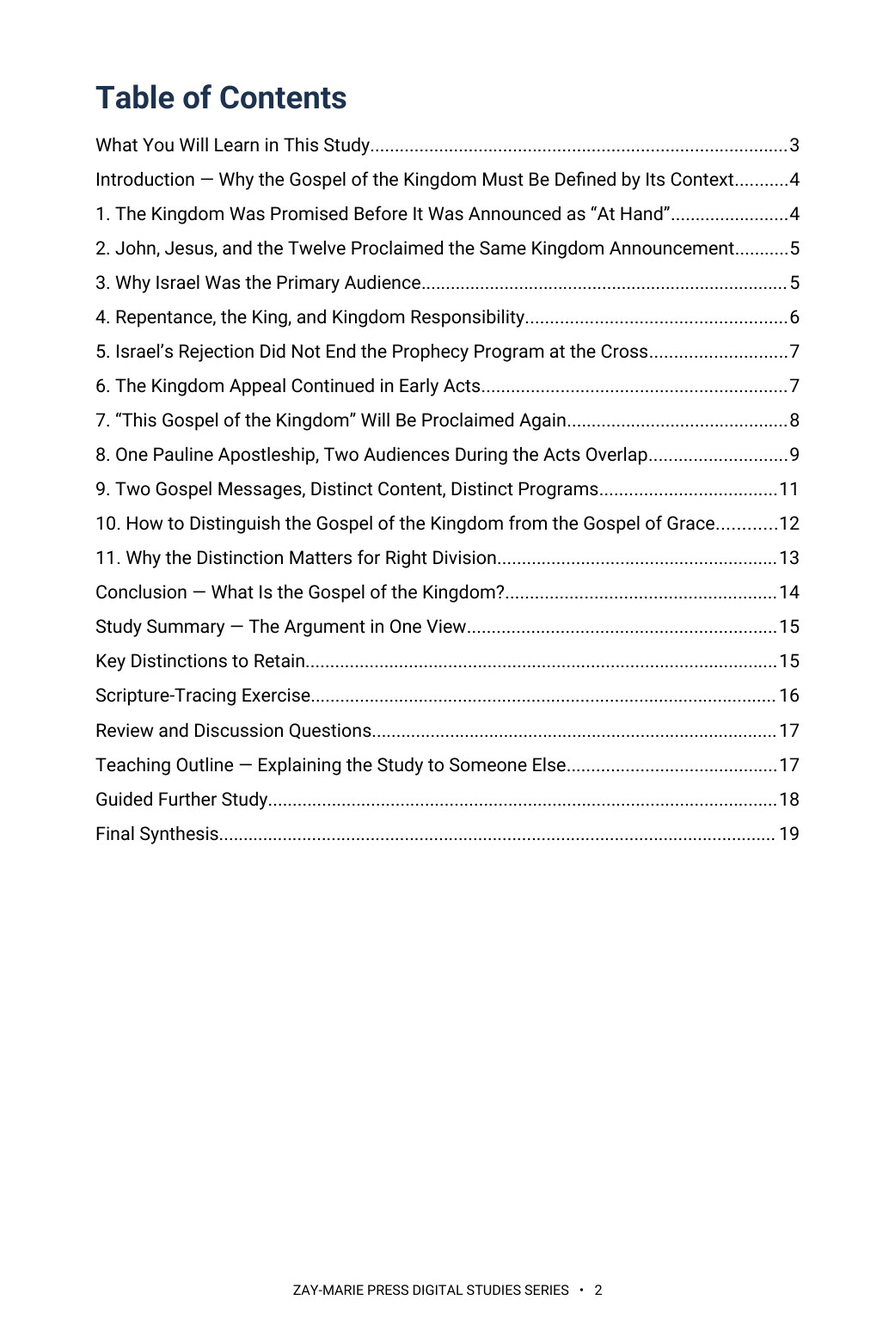
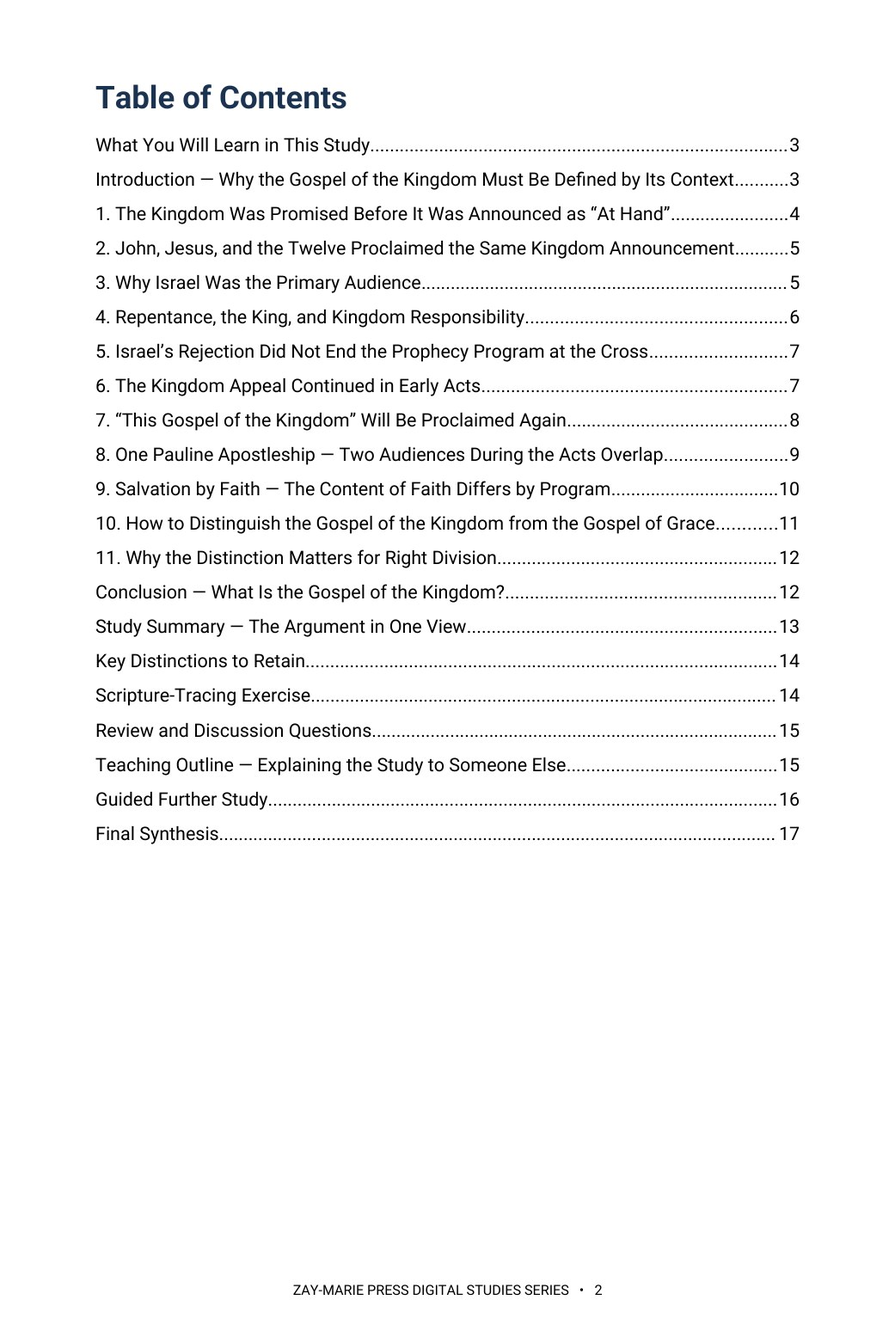
Study 2: rebuild at 17 pages on current page size; Rule 19, Rule 18 and Acts 28 wording applied; five callouts; v1.51 imprint
Claude-Session: https://claude.ai/code/session_01HC7bs9KYP2scp4hCL6DkTp

Changed region(s): [[0.123, 0.338, 0.7378, 0.3688], [0.8607, 0.4917, 0.8915, 0.5224]]

diff --git a/study-02-the-gospel-of-the-kingdom.html b/study-02-the-gospel-of-the-kingdom.html
@@ -28,8 +28,8 @@
 <section class="detail-section cream"><div class="wrap"><div class="eyebrow">KEY SCRIPTURES</div><h2>Examine the Passages for Yourself</h2><div class="scripture-grid"><div class="scripture-card"><h3>Isaiah 9:6–7</h3><p>Places the promised Son upon David’s throne and describes the government and Kingdom already revealed in Prophecy.</p></div><div class="scripture-card"><h3>Jeremiah 23:5–8</h3><p>Promises a righteous Davidic King under whose reign Judah is saved and Israel dwells safely.</p></div><div class="scripture-card"><h3>Daniel 2:44</h3><p>Describes the Kingdom established by the God of heaven in relation to the kingdoms of this world.</p></div><div class="scripture-card"><h3>Matthew 3:1–2; 4:17</h3><p>Records John and Jesus announcing that Israel’s already-promised Kingdom had drawn near.</p></div><div class="scripture-card"><h3>Matthew 10:5–7</h3><p>Identifies Israel as the initial audience and records the Twelve proclaiming the same Kingdom announcement.</p></div><div class="scripture-card"><h3>Acts 1:6–8; 3:19–21</h3><p>Shows that Israel’s Kingdom expectation and prophetic appeal remained operative after the resurrection.</p></div><div class="scripture-card"><h3>Acts 9:15, 20–22</h3><p>Shows Paul’s distinctive calling while illustrating his ministry to Israel concerning her promised Messiah during the overlap.</p></div><div class="scripture-card"><h3>Acts 20:24; 1 Corinthians 15:1–4</h3><p>Provides Pauline testimony concerning the Gospel of Grace and the saving message proclaimed to the Body of Christ.</p></div></div></div></section>
 <section class="detail-section"><div class="wrap"><div class="eyebrow">FROM THE STUDY</div><h2>The Kingdom Was Promised Before It Was Announced as “At Hand”</h2><div class="excerpt"><blockquote>“The Kingdom itself was not newly revealed. The prophetic Kingdom had already been made known; what John and Jesus announced was that the promised Kingdom had drawn near because the promised King was present.”</blockquote><p>This distinction establishes the study’s starting point: the Gospel of the Kingdom belongs to Israel’s revealed prophetic hope. The study then follows that message through the Gospel accounts and Acts before comparing it with the previously hidden Mystery revealed through Paul.</p></div></div></section>
 <section class="detail-section soft"><div class="wrap"><div class="eyebrow">A LOOK INSIDE</div><h2>Preview the Study Before You Purchase</h2><p class="preview-instruction">Click any page to enlarge.</p><div class="preview-grid"><div class="preview-card"><a class="preview-image-link" href="assets/study-02-page-2.jpg" data-preview-lightbox><img src="assets/study-02-page-2.jpg" alt="Study 2 page 2 preview — Table of Contents"/></a><div class="page-no">Page 2</div><h3>Table of Contents</h3><p>See the full structure of the study, from the introduction through the final synthesis.</p></div><div class="preview-card"><a class="preview-image-link" href="assets/study-02-page-3.jpg" data-preview-lightbox><img src="assets/study-02-page-3.jpg" alt="Study 2 page 3 preview — What You Will Learn"/></a><div class="page-no">Page 3</div><h3>What You Will Learn</h3><p>See the study’s learning goals and the skills it builds for comparing the Gospel of the Kingdom with the Gospel of the Grace of God.</p></div><div class="preview-card"><a class="preview-image-link" href="assets/study-02-page-4.jpg" data-preview-lightbox><img src="assets/study-02-page-4.jpg" alt="Study 2 page 4 preview — Introduction"/></a><div class="page-no">Page 4</div><h3>Introduction</h3><p>See how the study frames its central question and the method it follows to answer it from Scripture.</p></div></div></div></section>
-<section class="detail-section"><div class="wrap"><div class="eyebrow">WHAT’S INCLUDED</div><h2>A Focused Study Built for<br/>Understanding and Teaching</h2><div class="includes-grid"><div class="include-item"><h3>19-Page In-Depth Biblical Study</h3><p>A focused examination that develops the Gospel of the Kingdom through sustained biblical argument rather than a brief overview.</p></div><div class="include-item"><h3>20 Study Sections</h3><p>Progress from the prophetic Kingdom promises through the Gospel accounts, Acts, Pauline revelation, comparison, and final synthesis.</p></div><div class="include-item"><h3>Study Summary &amp; Key Distinctions</h3><p>Reinforce the central argument and retain crucial distinctions such as promise versus nearness, content versus requirements, and concurrency versus transfer.</p></div><div class="include-item"><h3>Scripture-Tracing Exercise</h3><p>Work through the principal passages in sequence and record what each text contributes before consulting the study’s conclusions.</p></div><div class="include-item"><h3>12 Review &amp; Discussion Questions</h3><p>Test comprehension of the Kingdom’s audience, prophetic setting, Acts chronology, Paul’s commission, and the distinction between the two gospel messages.</p></div><div class="include-item"><h3>Nine-Part Teaching Outline</h3><p>A ready framework for explaining the study’s argument from the prophets through Matthew, Acts, Paul, and the future Kingdom proclamation.</p></div><div class="include-item"><h3>Five Guided Further-Study Investigations</h3><p>Trace the Kingdom before Matthew, its announcement, the Acts appeal, Paul during the overlap, and the two gospel messages independently.</p></div><div class="include-item"><h3>Final Synthesis Exercise</h3><p>Bring the evidence together in a one-page explanation of the Kingdom gospel, its audience, its Acts continuation, and its distinction from the Gospel of Grace.</p></div></div></div></section>
-<section class="detail-section cream"><div class="wrap"><div class="final-buy"><div><div class="eyebrow">STUDY 2 · DIGITAL STUDY</div><h2>The Gospel of the Kingdom</h2><p>19-page digital PDF · For personal use</p></div><div class="final-offer"><div class="detail-price">$5.99</div><span class="detail-button pending" aria-disabled="true">Get the Study</span></div></div><a class="back-link" href="digital-studies.html">← Back to All Digital Studies</a></div></section>
+<section class="detail-section"><div class="wrap"><div class="eyebrow">WHAT’S INCLUDED</div><h2>A Focused Study Built for<br/>Understanding and Teaching</h2><div class="includes-grid"><div class="include-item"><h3>16-Page In-Depth Biblical Study</h3><p>A focused examination that develops the Gospel of the Kingdom through sustained biblical argument rather than a brief overview.</p></div><div class="include-item"><h3>20 Study Sections</h3><p>Progress from the prophetic Kingdom promises through the Gospel accounts, Acts, Pauline revelation, comparison, and final synthesis.</p></div><div class="include-item"><h3>Study Summary &amp; Key Distinctions</h3><p>Reinforce the central argument and retain crucial distinctions such as promise versus nearness, content versus requirements, and concurrency versus transfer.</p></div><div class="include-item"><h3>Scripture-Tracing Exercise</h3><p>Work through the principal passages in sequence and record what each text contributes before consulting the study’s conclusions.</p></div><div class="include-item"><h3>12 Review &amp; Discussion Questions</h3><p>Test comprehension of the Kingdom’s audience, prophetic setting, Acts chronology, Paul’s commission, and the distinction between the two gospel messages.</p></div><div class="include-item"><h3>Nine-Part Teaching Outline</h3><p>A ready framework for explaining the study’s argument from the prophets through Matthew, Acts, Paul, and the future Kingdom proclamation.</p></div><div class="include-item"><h3>Five Guided Further-Study Investigations</h3><p>Trace the Kingdom before Matthew, its announcement, the Acts appeal, Paul during the overlap, and the two gospel messages independently.</p></div><div class="include-item"><h3>Final Synthesis Exercise</h3><p>Bring the evidence together in a one-page explanation of the Kingdom gospel, its audience, its Acts continuation, and its distinction from the Gospel of Grace.</p></div></div></div></section>
+<section class="detail-section cream"><div class="wrap"><div class="final-buy"><div><div class="eyebrow">STUDY 2 · DIGITAL STUDY</div><h2>The Gospel of the Kingdom</h2><p>16-page digital PDF · For personal use</p></div><div class="final-offer"><div class="detail-price">$5.99</div><span class="detail-button pending" aria-disabled="true">Get the Study</span></div></div><a class="back-link" href="digital-studies.html">← Back to All Digital Studies</a></div></section>
 <section class="study-method-course-bridge"><div class="wrap"><div class="study-method-course-panel"><div><div class="eyebrow">BUILD THE INTERPRETIVE METHOD</div><h2>Want More Than a Focused Study?</h2><p>Digital Studies examine particular biblical subjects and difficult passages. The 40-lesson Biblical Hermeneutics course teaches a complete, repeatable method for establishing meaning in context, determining proper assignment, and making responsible application.</p></div><a class="btn btn-primary" href="biblical-hermeneutics-course.html">BIBLICAL HERMENEUTICS COURSE</a></div></div></section></main><div class="preview-lightbox" id="preview-lightbox" role="dialog" aria-modal="true" aria-label="Enlarged study page preview"><button class="preview-lightbox-close" type="button" aria-label="Close enlarged preview">×</button><img src="" alt=""/><div class="preview-lightbox-hint">Scroll to read the full page · Press Esc or click outside the page to close</div></div>
 <footer class="site-footer"><div class="wrap footer-grid"><div class="footer-about"><h3>Zay-Marie Press</h3><p class="footer-tagline"><em>Where the Bible Means What It Says.</em></p><p>Zay-Marie Press is a Christian theological publisher dedicated to producing doctrinally precise, carefully structured biblical resources that equip pastors, teachers, and serious students with clarity, depth, and Scripture-anchored truth.</p><p><a href="https://zaymariepress.com">zaymariepress.com</a><br/><a href="mailto:info@zaymariepress.com">info@zaymariepress.com</a></p></div><div class="footer-column"><h3>Explore</h3><div class="footer-links-stacked"><a href="books.html">Books</a><br/><a href="series.html">Series</a><br/><a href="biblical-hermeneutics-course.html">Course</a><br/><a href="digital-studies.html">Digital Studies</a><br/><a href="resources.html">Resources</a><br/><a href="bible-book-summaries.html">Bible Book Summaries</a><br/><a href="doctrinal-packets.html">Doctrinal Packets</a><br/><a href="historical-drift.html">Historical Drift</a><br/><a href="about.html">About</a><br/><a href="contact.html">Contact</a></div></div><div class="footer-column"><h3>Reader Support</h3><div class="footer-links-stacked"><a href="reader-support.html#faq">FAQ</a><br/><a href="reader-support.html#shipping-returns">Shipping &amp; Returns</a><br/><a href="reader-support.html#digital-downloads">Digital Downloads</a><br/><a href="reader-support.html#contact-support">Contact Support</a></div></div><div class="footer-column"><h3>Acts Overlap</h3><p><strong>Acts Overlap Theology Series</strong></p><p><em>Two Distinct Streams. One Overlap.</em></p><p><a href="series.html">Series Overview</a></p></div></div><div class="wrap footer-bottom">© 2026 Zay-Marie Press. All rights reserved.</div></footer>
 <script src="site.js"></script><script>(function(){var box=document.getElementById("preview-lightbox"),img=box.querySelector("img"),close=box.querySelector(".preview-lightbox-close"),hint=box.querySelector(".preview-lightbox-hint"),hintTimer;function shut(){clearTimeout(hintTimer);box.classList.remove("open");hint.classList.remove("fade");document.body.style.overflow="";img.src="";}document.querySelectorAll("[data-preview-lightbox]").forEach(function(a){a.addEventListener("click",function(e){e.preventDefault();clearTimeout(hintTimer);img.src=a.getAttribute("href");img.alt=a.querySelector("img").alt;hint.classList.remove("fade");box.classList.add("open");document.body.style.overflow="hidden";box.scrollTop=0;hintTimer=setTimeout(function(){hint.classList.add("fade");},3000);});});close.addEventListener("click",shut);box.addEventListener("click",function(e){if(e.target===box)shut();});document.addEventListener("keydown",function(e){if(e.key==="Escape"&&box.classList.contains("open"))shut();});})();</script>

diff --git a/site.js b/site.js
@@ -62,7 +62,7 @@ const resourceModal=document.querySelector('#resource-modal'), resourceModalTitl
 if(resourceModal&&resourceModalTriggers.length){const closeResourceModal=()=>{resourceModal.hidden=true;document.body.classList.remove('resource-modal-open');lastResourceTrigger?.focus();};resourceModalTriggers.forEach(trigger=>trigger.addEventListener('click',()=>{lastResourceTrigger=trigger;if(resourceModalTitle)resourceModalTitle.textContent=trigger.dataset.title||'Resource';if(resourceModalDescription)resourceModalDescription.textContent=trigger.dataset.description||'';if(resourceModalLink){resourceModalLink.href=trigger.dataset.href||'#';resourceModalLink.textContent=trigger.dataset.linkText||'OPEN RESOURCE';}resourceModal.hidden=false;document.body.classList.add('resource-modal-open');resourceModalClose?.focus();}));resourceModalClose?.addEventListener('click',closeResourceModal);resourceModal.addEventListener('click',e=>{if(e.target===resourceModal)closeResourceModal();});document.addEventListener('keydown',e=>{if(e.key==='Escape'&&!resourceModal.hidden)closeResourceModal();});}
 
 /* Display the verified final-PDF page count at the primary purchase decision point. */
-const digitalStudyPageCounts={1:20,2:19,3:18,4:17,5:15,6:15,7:15,8:15,9:15,10:23,11:15,12:15,13:18,14:15,15:15,16:16,17:17,18:18,19:18,20:18,21:16,22:15,23:14,24:16,25:17,26:16,27:16,28:17,29:19,30:18,31:19,32:19,33:18,34:20,35:22,36:20,37:21,38:22,39:22,40:23,41:21,42:17,43:16,44:19,45:19,46:20,47:20,48:20,49:20,50:20,51:20,52:19,53:19,54:17,55:20,56:20,57:20,58:19,59:20,60:15,61:14,62:18,63:17,64:17,65:16,66:16,67:17,68:16,69:17,70:17,71:16};
+const digitalStudyPageCounts={1:20,2:17,3:18,4:17,5:15,6:15,7:15,8:15,9:15,10:23,11:15,12:15,13:18,14:15,15:15,16:16,17:17,18:18,19:18,20:18,21:16,22:15,23:14,24:16,25:17,26:16,27:16,28:17,29:19,30:18,31:19,32:19,33:18,34:20,35:22,36:20,37:21,38:22,39:22,40:23,41:21,42:17,43:16,44:19,45:19,46:20,47:20,48:20,49:20,50:20,51:20,52:19,53:19,54:17,55:20,56:20,57:20,58:19,59:20,60:15,61:14,62:18,63:17,64:17,65:16,66:16,67:17,68:16,69:17,70:17,71:16};
 const digitalStudyMatch=window.location.pathname.match(/\/study-(\d+)-/i);
 const digitalStudyFormat=document.querySelector('.detail-hero .detail-format');
 if(digitalStudyMatch&&digitalStudyFormat){const studyNumber=Number(digitalStudyMatch[1]),pageCount=digitalStudyPageCounts[studyNumber];if(pageCount)digitalStudyFormat.textContent=`Digital PDF · ${pageCount} Pages`;}

diff --git a/build-tools/studies/b02/ed02r.py b/build-tools/studies/b02/ed02r.py
@@ -1,0 +1,88 @@
+from edcommon import *
+import re
+KEEP={'KEY DISTINCTION','AUDIENCE MATTERS','ACTS OVERLAP FOUNDATION','NON-TRANSFER PRINCIPLE','THE ANSWER IN ONE SENTENCE'}
+SUSP="nationally suspended—not canceled, transferred or absorbed"
+SEQ="Acts 28 establishes the suspension boundary; that the Kingdom gospel is proclaimed again rests on Matthew 24:14 and the prophetic passages traced here, not on Acts 28 alone."
+def setp(els,prefix,new):
+    i=find(els,prefix); els[i]['segs']=[[new,False,False]]; return i
+def apply(els):
+    assert T(els[0])=='The Gospel of the Kingdom' and T(els[6])=='What You Will Learn in This Study'
+    del els[0:6]
+    assert T(els[2]).startswith('By the end of the study')
+    els[2]=mk('body',[['By the end of this study, you should be able to:',False,False]])
+    assert all(els[k]['kind']=='bul' for k in range(3,13)) and T(els[13])=='Study Outline'
+    wy=['Trace the Kingdom through Isaiah, Jeremiah, Daniel and the Gospel accounts, noting what each says about the King, the people and the throne.',
+    'Follow the “at hand” announcement through John, Jesus and the Twelve, and record to whom each was sent.',
+    'Read Acts 1–3 for what Peter says to Israel about repentance and the restitution of all things, and note where Acts 9 and Acts 28 mark change.',
+    'Place Matthew 24:14 within its own prophetic setting before comparing it with Paul’s message.',
+    'Examine Paul’s synagogue ministry by its audience, its source and his commission.',
+    'Separate salvation by faith from the content of faith and from program-specific requirements, and compare the two gospels without merging their audiences, promises or commissions.']
+    els[3:13]=[mk('bul',[[t,False,False]]) for t in wy]
+    a=find(els,'Study Outline')  # h1
+    b=[k for k,e in enumerate(els) if P(e) and e['kind']=='h1' and T(e).startswith('Introduction')][0]
+    so=['Trace the Kingdom through Isaiah, Jeremiah and Daniel before it is announced as “at hand”.',
+    'Follow the same announcement through John, Jesus and the Twelve, and identify its audience.',
+    'Place repentance and Kingdom responsibility inside Israel’s prophetic setting.',
+    'Follow Israel’s appeal past the Cross through Acts 1–3, and mark Acts 9 and Acts 28.',
+    'Read Matthew 24:14 in its prophetic setting.',
+    'Handle Paul’s synagogue ministry by its audience and his commission.',
+    'Separate salvation by faith from the content of faith and from program-specific requirements.',
+    'Compare the Gospel of the Kingdom and the Gospel of the Grace of God without merging them.']
+    els[a+1:b]=[mk('bul',[[t,False,False]]) for t in so]
+    # Teaching Outline: strip roman numerals
+    ta=[k for k,e in enumerate(els) if P(e) and e['kind']=='h1' and T(e).startswith('Teaching Outline')][0]
+    k=ta+1
+    while els[k]['kind']=='body' and re.match(r'^[IVX]+\. ',T(els[k])):
+        els[k]=mk('bul',[[re.sub(r'^[IVX]+\. ','',T(els[k])),False,False]]); k+=1
+    setp(els,'Compare the Gospels —','Compare the Gospels — Distinguish audience, content of faith, promises, and commission.')
+    setp(els,'Handle Paul Carefully —','Handle Paul Carefully — Distinguish Paul’s one Pauline apostleship from his audience-specific proclamation to Israel.')
+    # Rule 19
+    rep(els,'Repentance, baptism, and other Kingdom requirements do not become the meritorious ground of salvation. The ground remains God’s grace and the finished work of Christ; the required response reflects the content and obligations God had revealed to Israel.','Salvation is always by faith and never by merit. Repentance, baptism, and other Kingdom requirements are program-specific responsibilities, never the ground of salvation and never Pauline faith-alone doctrine, and they do not transfer to the Body. The required response reflects the content and obligations God had revealed to Israel.')
+    setp(els,'At this point, keep two questions separate','At this point, keep two questions separate: What response did God require from the people under that program? And what content of faith had God revealed to them? The first question concerns revealed responsibility; the second concerns the content of faith. Keeping them distinct prevents a required response from being mistaken for the meritorious basis upon which God saves.')
+    setp(els,'Program-specific response and Kingdom responsibility','Program-specific response and Kingdom responsibility must not be confused with the ground of salvation. Later in this study we will distinguish salvation by faith, the content of faith, and program-specific requirements.')
+    setp(els,'9. Two Gospel Messages','9. Salvation by Faith — The Content of Faith Differs by Program')
+    setp(els,'At this point an important question','At this point an important question must be answered directly. If the Gospel of the Kingdom and the Gospel of the Grace of God differ in audience and revealed content, does salvation rest on human merit in either one? No. Salvation is always by faith and never by merit.')
+    setp(els,'The ground of salvation is always','No sinner in any program supplies the meritorious basis of salvation. What differs is the content of faith: the content is what God had revealed within each program. Prophecy saints before the Cross, such as Abraham, Moses and David, were saved by believing the content God had revealed to them—not Pauline revelation, and not the finished work of Christ, which had not yet been revealed.')
+    setp(els,'But the content of faith is determined','Israel under the Prophecy Program was accountable to the revelation and covenantal responsibilities God had given to Israel. The Body of Christ is saved by believing Pauline revelation, the gospel of the grace of God, through faith alone.')
+    setp(els,'Program-specific requirements must therefore','Program-specific requirements must therefore be distinguished from salvation by faith. Repentance, baptism, covenant obligations, Kingdom entrance requirements, or other instructions must be interpreted according to the people and program to which God assigned them; they are never the ground of salvation, never Pauline faith-alone doctrine, and they do not transfer to the Body.')
+    setp(els,'1) What is the ground upon which God saves?','1) How is a person saved? By faith, never by merit.  2) What content had God revealed for faith at that point?  3) What program-specific requirements governed the people being addressed? Confusing these questions produces unnecessary contradictions.')
+    setp(els,'This distinction allows us to preserve both truths','This distinction allows us to preserve both truths at once: the Gospel of the Kingdom and the Gospel of Grace are not the same message, yet in neither does salvation rest on human merit. The content of faith is what God revealed within each program, and their revealed content and programmatic audience differ.')
+    setp(els,'The comparison does not establish two meritorious','The comparison does not establish two meritorious grounds of salvation. It shows why the interpreter must distinguish the content God had revealed for faith in each setting from the program-specific response required of the audience being addressed.')
+    rep(els,'while accomplishing salvation through the same finished work of Christ.','while salvation remains by faith and never by merit.')
+    rep(els,'Both ultimately rest upon the finished work of Christ, but they differ in revealed content, programmatic audience, promises, and commission.','They differ in revealed content, programmatic audience, promises, and commission, and in neither does salvation rest on merit.')
+    setp(els,'The Gospel of the Kingdom and Gospel of Grace share','Salvation is always by faith and never by merit, but the content of faith differs: what God revealed within each program governs the Gospel of the Kingdom and the Gospel of Grace.')
+    rep(els,'Ground vs. Content:','Faith vs. Content:')
+    rep(els,'The finished work of Christ is the ground of salvation; the content of faith is determined by revelation.','Salvation is by faith, never by merit; the content of faith is what God revealed within each program.')
+    rep(els,'What is shared in the saving ground?','How does salvation by faith, never by merit, apply in each message?')
+    rep(els,'the ground/content distinction in salvation','the distinction between salvation by faith and the content of faith')
+    rep(els,'between the ground of salvation and the content of faith?','between salvation by faith and the content of faith?')
+    n=0
+    for e in els:
+        if e['type']=='tbl':
+            for r in e['rows']:
+                if r[0]=='Shared ground': r[:]=['Content of faith','What God revealed within Prophecy','Pauline revelation, the gospel of the grace of God']; n+=1
+    assert n==1
+    # Rule 18
+    setp(els,'Yet Israel’s Prophecy Program remained operative',R18)
+    setp(els,'The audience, setting, and content matter.','The audience, setting, and content matter. Paul speaks to Jews from Israel’s Scriptures about Israel’s promised Messiah. Speaker identity does not override program identity. '+R18S)
+    setp(els,'Paul may communicate previously revealed','When Paul proclaims Israel’s Messiah and kingdom hope to Israel, that proclamation does not become Mystery doctrine, does not transfer Israel’s obligations to the Body, and does not make Paul an administrator of Israel’s Prophecy Program.')
+    setp(els,'Paul has one Pauline apostleship and commission. His communication','Paul has one Pauline apostleship and commission. His proclamation of Israel’s Messiah to Israel from her Scriptures does not make him a Prophecy apostle or transfer that message to the Body.')
+    rep(els,'Paul may proclaim Prophecy truth to Israel without possessing the Twelve’s Kingdom Commission.','Paul may proclaim Israel’s Messiah to Israel from her Scriptures without possessing the Twelve’s Kingdom Commission.')
+    # Acts 28
+    rep(els,'the national judicial suspension point is Acts 28.','Israel’s Prophecy Program was nationally suspended at Acts 28.')
+    rep(els,'The later national suspension at Acts 28 therefore does not cancel the prophetic Kingdom.','At Acts 28 Israel’s Prophecy Program was %s, so the prophetic Kingdom stands.'%SUSP)
+    i=find(els,'When God resumes His prophetic purpose'); els[i]['segs'][0][0]=SEQ+' '+els[i]['segs'][0][0] if False else els[i]['segs'][0][0]+' '+SEQ
+    setp(els,'Israel’s Prophecy Program reaches its national judicial suspension point at Acts 28.','At Acts 28 Israel’s Prophecy Program was %s. The promises themselves stand.'%SUSP)
+    rep(els,'At Acts 28 Israel’s Prophecy Program reaches its national judicial suspension point. Suspension is not cancellation: Israel remains','At Acts 28 Israel’s Prophecy Program was %s. Israel remains'%SUSP)
+    setp(els,'Acts 28 suspends Israel’s active Prophecy Program nationally;','At Acts 28 Israel’s Prophecy Program was nationally suspended (not canceled, transferred or absorbed); Israel’s future promises stand.')
+    rep(els,'Acts 28 suspends Israel’s active Prophecy Program nationally; it does not abolish Israel’s prophetic future.','At Acts 28 Israel’s Prophecy Program was nationally suspended (not canceled, transferred or absorbed); Israel’s prophetic future stands.')
+    # overlap + R17 once, before the Acts Overlap Foundation callout
+    ci=[k for k,e in enumerate(els) if P(e) and e['kind']=='ctitle' and T(e)=='ACTS OVERLAP FOUNDATION'][0]
+    ins_after_idx(els,ci-1,OVERLAP+' '+R17)
+    for e in els:
+        if P(e):
+            t=T(e)
+            for bad in ['finished work','judicial suspension','shared ground','Shared ground','saving ground','Prophecy truth','supplied the saving']:
+                assert bad not in t or 'not yet been revealed' in t,(bad,t[:90])
+    runin_extras(els,KEEP); number_outline(els); glyphs(els)
+    return els

diff --git a/CLAUDE.md b/CLAUDE.md
@@ -26,7 +26,7 @@ These are kept in the repo at `controlling-documents/` and are the current versi
 - **`build-tools/`** — the study rebuild toolkit (scripts, per-study edit files, README), committed 2026-10-04 at the publisher's approval so the retrofit method and every per-study wording edit survive a session reset. Working tools only; the site does not use them. Not a rule.
 **`controlling-documents/Digital_Studies_Relationship_Map_v1.39.md`** — records each study's distinct subject, its related studies, the eight priced six-study collections, the Paul's Missionary Journeys cross-reference map, and the five primary catalog categories (currently version 1.39, covers Studies 1–71; update it as new studies publish, bump the version number, rename the file to match, and log the change in its own version-history table — mirroring the Master Standard's `_vX.Y` filename convention). Check a proposed topic against it before recommending or writing a new study. (2026-09-28: the file was missing from this repo despite this note referencing it; replaced from the publisher's copy and bumped v1.15→v1.25 in the same pass. If this note ever again points to a version not present under `controlling-documents/`, ask the publisher for a copy rather than proceeding without the check.)
 - **`controlling-documents/Digital_Studies_Category_Standard_v1.1.md`** — FINAL and binding (publisher, 2026-10-01): the rules for the five primary catalog categories (Foundations, Israel & Prophecy, Body of Christ, Passages, Doctrinal Themes), the ordered decision procedure for new studies, the precedents, all 71 fixed assignments, and the cover-label form for each category. Read it before placing any card or cover label. Do not ask the publisher where a study belongs; apply the procedure and state the result. Only the publisher changes a ruling; then bump this Standard's version and filename, re-letter the cover, and update the Relationship Map.
-- **`controlling-documents/Doctrinal_Upgrade_Retrofit_Plan_v1.139.md`** — working tracker for retrofitting Studies 1–59 to the 2026-10-02 doctrinal upgrade (Framework/PAM v1.1, Master Standard v1.40, Rules 7–17): withdrawn-wording search keys, impact tiers, waves and the per-study method. Read it before continuing the retrofit in any session; update status, bump the version and rename the file as work proceeds.
+- **`controlling-documents/Doctrinal_Upgrade_Retrofit_Plan_v1.140.md`** — working tracker for retrofitting Studies 1–59 to the 2026-10-02 doctrinal upgrade (Framework/PAM v1.1, Master Standard v1.40, Rules 7–17): withdrawn-wording search keys, impact tiers, waves and the per-study method. Read it before continuing the retrofit in any session; update status, bump the version and rename the file as work proceeds.
 - **`controlling-documents/Doctrinal_Packet_Standard_v0.3.md`** — Doctrinal Packet Standard (DRAFT; §7 approved). Governs the separate Doctrinal Packets product strand (5-page interpretive PDFs per Bible book — a print-friendly cover as page 1 plus 4 content pages, $2.99, KJV, pilot: Genesis, live at `packet-genesis.html`, hub `doctrinal-packets.html`; site pages say "5 Pages", cover styles live in `packets.css`, Old Testament blue and New Testament soft pale green, hub listed in Bible order). **Preview rule (publisher directive, 2026-09-29, packets only):** previews show about one page's worth in two cropped views (top of page 1 through the anchor texts; the chart section) — never the exegesis, architecture, Mystery contrast, logic chain, outline, or closing. Master Standard §16/§17 still govern Digital Studies. Bump the version and rename the file as the Standard is finalized.
 - **`controlling-documents/Preview_Page_Spoiler_Retrofit_Audit_v1.4.md`** — working tracker for the Studies 1–60 preview-page conclusion-spoiler retrofit (see the section below). Read it before continuing that audit in any session; update its status fields and changelog, bump the version, and rename the file to match as the audit proceeds — same `_vX.Y` convention as the other controlling documents. As of v1.1, the website-side half was DONE: all 60 studies' "What You'll Study" text was judged against the rule (methodology documented in the file) and 22 points across 11 studies were rewritten and pushed; an unrelated Study 22 content bug (Study 21's content had leaked into it) was also found and fixed. As of v1.2, the publisher supplied Studies 1–60's interior production PDFs and the interior-PDF half was also surveyed (read-only): 10 studies (37, 41, 45, 47, 48, 49, 51, 52, 53, 54) were found to have at least one interior "What You Will Learn" violation, 50 studies were confirmed compliant, and the orphaned `assets/study-45-sanctification-under-grace.docx` (removed from the repo per the publisher in v1.0) was confirmed word-for-word identical to Study 45's actual production interior PDF content. As of v1.3, the publisher supplied editable DOCX sources for all 10 violating studies; all 15 violating points were rewritten and approved, delivered as corrected final PDFs, and — along the way — a second defect was found and fixed (Studies 47 and 48's source DOCX still had an unintegrated cover placeholder despite both being long-published live with real covers; fixed by inserting the existing approved cover art). The website's "What You Will Learn" preview image (`study-NN-page-3.jpg`) was regenerated from the corrected content for all 10 studies and pushed to `main` (commit `cea1859`), verified against a fresh clone. **The website side of this audit is now fully compliant for all 60 studies.** Outstanding: the publisher's purchasable interior PDF files themselves have corrected versions delivered, but distribution to existing purchasers was decided by the publisher on 2026-09-29: silent swap of the files behind the existing downloads, no reissue notice (recorded in the v1.4 changelog entry; the product files are not in this repo).
 

diff --git a/controlling-documents/Doctrinal_Upgrade_Retrofit_Plan_v1.140.md b/controlling-documents/Doctrinal_Upgrade_Retrofit_Plan_v1.140.md
@@ -236,3 +236,5 @@ Working tracker for correcting published studies to the Framework/PAM v1.1, Mast
 - v1.138 (2026-10-04): Imprint scan, Study 8 rebuilt at 15 pages (was 13): v1.51 imprint, What You Will Learn cut from 9 to 5 process bullets, Teaching Outline numbered 1–11, 'Study #8' replaced by 'this study' (Study #7 neighbour pointer kept). No doctrine changes needed. Website: site.js 8:15, page text 14-page (interior; was 13 stale), previews 2, 3, 5. Studies 10 and 2 remain. Publisher-approved 2026-10-04.
 
 - v1.139 (2026-10-04): Imprint scan, Study 10 rebuilt at 23 pages (was 20): v1.51 imprint; What You Will Learn opening paragraphs and bullets rewritten to process (6 bullets); Teaching Outline numbered 1–8; six 'national judicial suspension … not abolition and not a transfer' passages conformed to 'nationally suspended—not canceled, transferred or absorbed'; publisher ruling (option 1): Acts 28 sequence sentence 'Acts 28 establishes the suspension boundary; that the seventieth week remains future rests on Daniel 9:24–27 and the prophetic passages traced here, not on Acts 28 alone.' Website: site.js 10:23, page text 22-page (interior), previews 2, 3, 4. Study 2 remains. Publisher-approved 2026-10-04.
+
+- v1.140 (2026-10-04): Imprint scan, Study 2 rebuilt at 17 pages (was 19; Letter-size source moved to 483.9 × 725.8 pt, front title and copyright page removed): v1.51 imprint; 12 callouts reduced to 5 (KEY DISTINCTION, AUDIENCE MATTERS, ACTS OVERLAP FOUNDATION, NON-TRANSFER PRINCIPLE, THE ANSWER IN ONE SENTENCE), seven become run-in paragraphs; Rule 19 applied (Section 9 now 'Salvation by Faith — The Content of Faith Differs by Program'; all finished-work/shared-ground wording removed incl. table row and Part 5 question); Rule 18 sentence and short form added to Section 8, 'Prophecy truth' wording replaced; Acts 28 conformed plus sequence sentence ('Acts 28 establishes the suspension boundary; that the Kingdom gospel is proclaimed again rests on Matthew 24:14 and the prophetic passages traced here, not on Acts 28 alone.'); overlap and Rule 17 sentences added once; What You Will Learn and Study Outline process bullets; Teaching Outline numbered 1–9. Website: site.js 2:17, page text 16-page (interior), previews 2, 3, 4. Imprint scan batch 1 complete (Studies 3, 7, 8, 10, 2 rebuilt). Batches 2 and 3 awaiting PDFs. Publisher-approved 2026-10-04.

diff --git a/controlling-documents/Digital_Studies_PAM_Audit_v1.234.md b/controlling-documents/Digital_Studies_PAM_Audit_v1.234.md
@@ -463,3 +463,4 @@ Study 15 PDF not yet supplied. Typography: none of Studies 2, 3, 6, 8 is in EB G
 - v1.231 (2026-10-04): Study 7 rebuilt at 15 pages with v1.51 imprint, five process-bullet What You Will Learn, numbered Teaching Outline, 'Study #7' removed (see Retrofit Plan v1.137).
 - v1.232 (2026-10-04): Study 8 rebuilt at 15 pages with v1.51 imprint, five process-bullet What You Will Learn, numbered Teaching Outline, 'Study #8' removed (see Retrofit Plan v1.138).
 - v1.233 (2026-10-04): Study 10 rebuilt at 23 pages with v1.51 imprint, process-bullet What You Will Learn, numbered Teaching Outline, six Acts 28 conformings plus the seventieth-week sequence sentence (see Retrofit Plan v1.139).
+- v1.234 (2026-10-04): Study 2 rebuilt at 17 pages on the current page size: Rule 19 section 9 rewritten, Rule 18 synagogue wording, Acts 28 conformed with Matthew 24:14 sequence sentence, overlap and Rule 17 sentences added, 5 callouts, v1.51 imprint (see Retrofit Plan v1.140).
